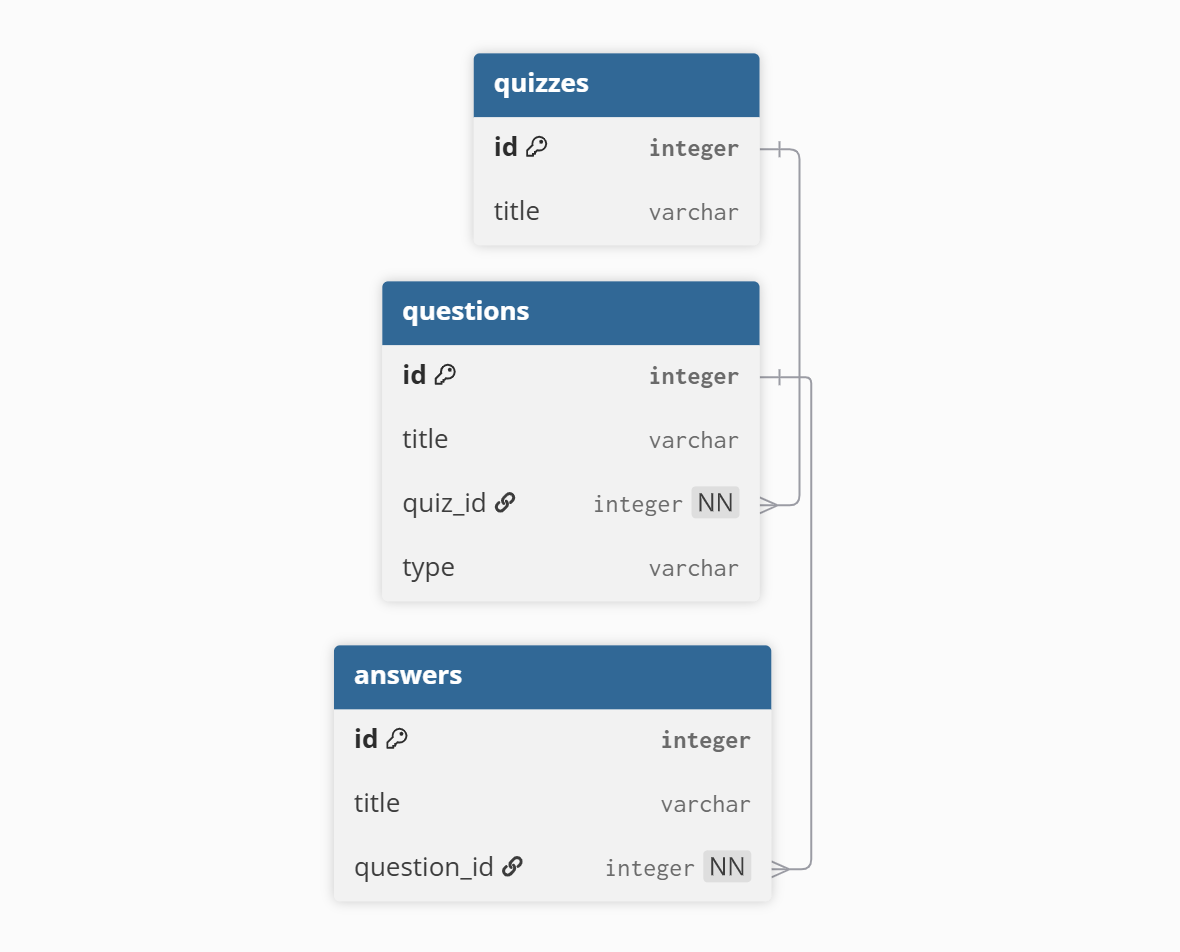
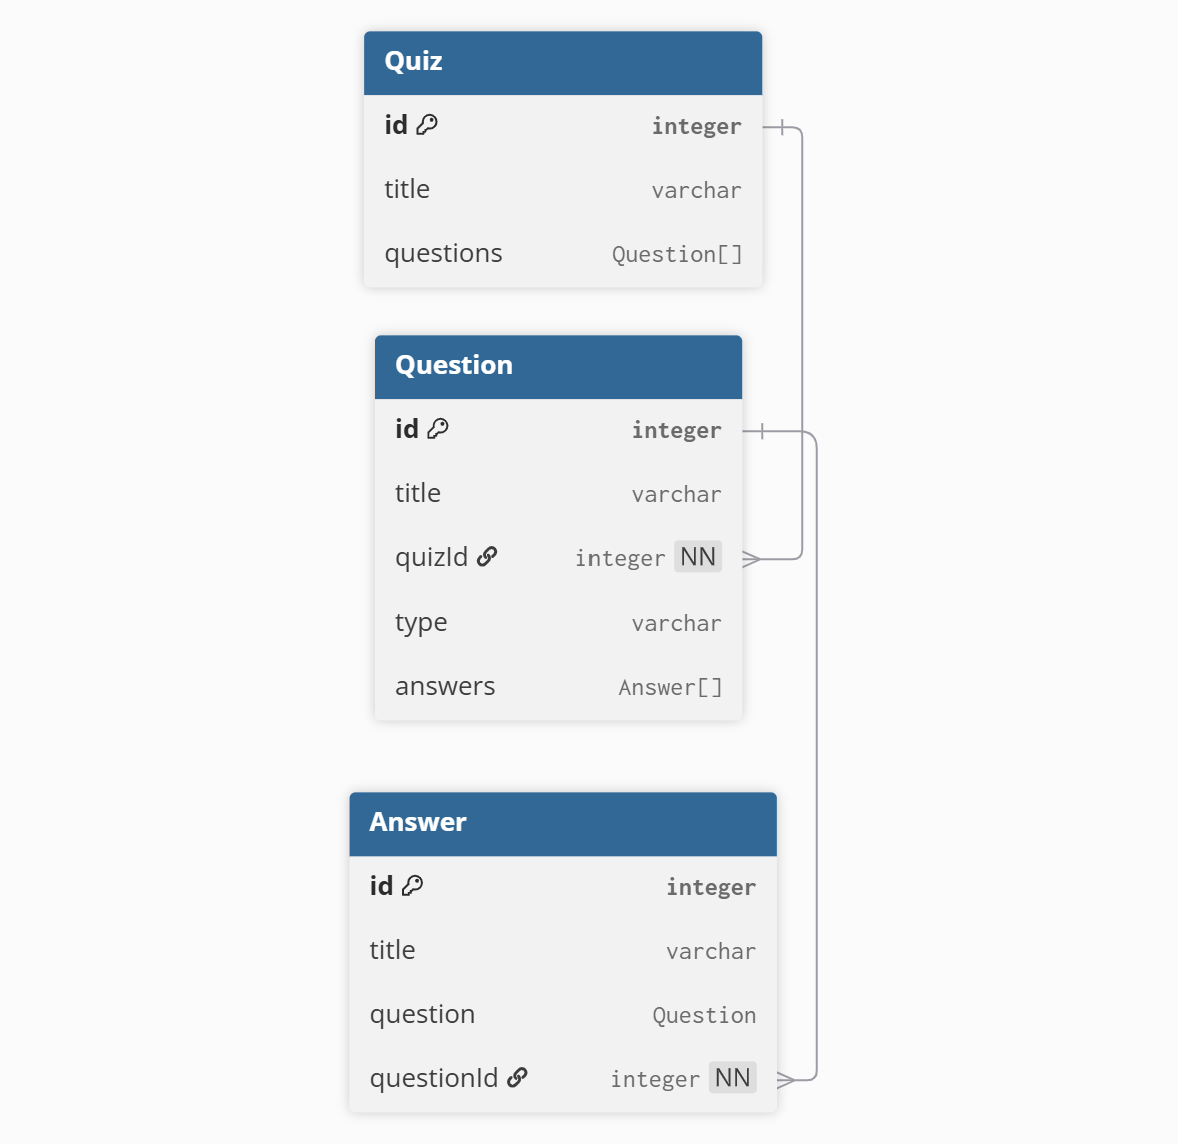
Create quiz Service and Controller

diff --git a/backend/src/quizzes/quizzes.service.ts b/backend/src/quizzes/quizzes.service.ts
@@ -1,0 +1,72 @@
+import { Injectable } from '@nestjs/common';
+import { CreateQuizDto } from './dto/create-quiz.dto';
+import { PrismaService } from 'src/prisma/prisma.service';
+
+@Injectable()
+export class QuizzesService {
+  constructor(private prisma: PrismaService) {}
+
+  async create(data: CreateQuizDto) {
+    return this.prisma.quiz.create({
+      data: {
+        title: data.title,
+        questions: {
+          create: data.questions.map((q) => {
+            const questionData: any = {
+              title: q.title,
+              type: q.type,
+            };
+            
+            // Adding answer only if type is multiple choice
+            if (q.type === 'MULTIPLE_CHOICE') {
+              questionData.answers = {
+                create: q.answers.map((a) => ({
+                  title: a.title,
+                })),
+              };
+            }
+
+            return questionData;
+          }),
+        },
+      },
+      include: {
+        questions: { include: { answers: true } },
+      },
+    });
+  }
+
+  async findAll() {
+    const quizzes = await this.prisma.quiz.findMany({
+      select: {
+        id: true,
+        title: true,
+        _count: {
+          select: { questions: true },
+        },
+      },
+    });
+    
+    // Mapping before return
+    return quizzes.map(q => ({
+      id: q.id,
+      title: q.title,
+      questions: q._count.questions,
+    }));
+  }
+
+  async findOne(id: number) {
+    return this.prisma.quiz.findUnique({
+      where: { id },
+      include: {
+        questions: { include: { answers: true } },
+      },
+    });
+  }
+
+  async remove(id: number) {
+    return this.prisma.quiz.delete({
+      where: { id },
+    });
+  }
+}

diff --git a/backend/src/quizzes/quizzes.controller.ts b/backend/src/quizzes/quizzes.controller.ts
@@ -1,0 +1,28 @@
+import { Controller, Post, Get, Delete, Param, Body, ParseIntPipe } from '@nestjs/common';
+import { QuizzesService } from './quizzes.service';
+import { CreateQuizDto } from './dto/create-quiz.dto';
+
+@Controller('quizzes')
+export class QuizzesController {
+  constructor(private readonly quizzesService: QuizzesService) {}
+
+  @Post()
+  create(@Body() createQuizDto: CreateQuizDto) {
+    return this.quizzesService.create(createQuizDto);
+  }
+
+  @Get()
+  findAll() {
+    return this.quizzesService.findAll();
+  }
+
+  @Get(':id')
+  findOne(@Param('id', ParseIntPipe) id: number) {
+    return this.quizzesService.findOne(id);
+  }
+
+  @Delete(':id')
+  remove(@Param('id', ParseIntPipe) id: number) {
+    return this.quizzesService.remove(id);
+  }
+}

diff --git a/backend/src/quizzes/dto/create-quiz.dto.ts b/backend/src/quizzes/dto/create-quiz.dto.ts
@@ -1,0 +1,34 @@
+import { IsString, IsNotEmpty, IsArray, ValidateNested } from 'class-validator';
+import { Type } from 'class-transformer';
+
+class CreateAnswerDto {
+  @IsString()
+  @IsNotEmpty()
+  title: string;
+}
+
+class CreateQuestionDto {
+  @IsString()
+  @IsNotEmpty()
+  title: string;
+
+  @IsString()
+  @IsNotEmpty()
+  type: string;
+
+  @IsArray()
+  @ValidateNested({ each: true })
+  @Type(() => CreateAnswerDto)
+  answers: CreateAnswerDto[];
+}
+
+export class CreateQuizDto {
+  @IsString()
+  @IsNotEmpty()
+  title: string;
+
+  @IsArray()
+  @ValidateNested({ each: true })
+  @Type(() => CreateQuestionDto)
+  questions: CreateQuestionDto[];
+}

diff --git a/backend/src/quizzes/quizzes.controller.spec.ts b/backend/src/quizzes/quizzes.controller.spec.ts
@@ -1,0 +1,20 @@
+import { Test, TestingModule } from '@nestjs/testing';
+import { QuizzesController } from './quizzes.controller';
+import { QuizzesService } from './quizzes.service';
+
+describe('QuizzesController', () => {
+  let controller: QuizzesController;
+
+  beforeEach(async () => {
+    const module: TestingModule = await Test.createTestingModule({
+      controllers: [QuizzesController],
+      providers: [QuizzesService],
+    }).compile();
+
+    controller = module.get<QuizzesController>(QuizzesController);
+  });
+
+  it('should be defined', () => {
+    expect(controller).toBeDefined();
+  });
+});

diff --git a/backend/src/quizzes/quizzes.service.spec.ts b/backend/src/quizzes/quizzes.service.spec.ts
@@ -1,0 +1,18 @@
+import { Test, TestingModule } from '@nestjs/testing';
+import { QuizzesService } from './quizzes.service';
+
+describe('QuizzesService', () => {
+  let service: QuizzesService;
+
+  beforeEach(async () => {
+    const module: TestingModule = await Test.createTestingModule({
+      providers: [QuizzesService],
+    }).compile();
+
+    service = module.get<QuizzesService>(QuizzesService);
+  });
+
+  it('should be defined', () => {
+    expect(service).toBeDefined();
+  });
+});

diff --git a/backend/src/app.module.ts b/backend/src/app.module.ts
@@ -2,9 +2,10 @@ import { Module } from '@nestjs/common';
 import { AppController } from './app.controller';
 import { AppService } from './app.service';
 import { PrismaModule } from './prisma/prisma.module';
+import { QuizzesModule } from './quizzes/quizzes.module';
 
 @Module({
-  imports: [PrismaModule],
+  imports: [PrismaModule, QuizzesModule],
   controllers: [AppController],
   providers: [AppService],
 })

diff --git a/backend/src/quizzes/quizzes.module.ts b/backend/src/quizzes/quizzes.module.ts
@@ -1,0 +1,9 @@
+import { Module } from '@nestjs/common';
+import { QuizzesService } from './quizzes.service';
+import { QuizzesController } from './quizzes.controller';
+
+@Module({
+  controllers: [QuizzesController],
+  providers: [QuizzesService],
+})
+export class QuizzesModule {}

diff --git a/backend/src/prisma/prisma.service.ts b/backend/src/prisma/prisma.service.ts
@@ -1,5 +1,5 @@
 import { Injectable, OnModuleInit, OnModuleDestroy } from '@nestjs/common';
-import { PrismaClient } from '@prisma/client';
+import { PrismaClient } from '../../generated/prisma/client';
 
 @Injectable()
 export class PrismaService

diff --git a/backend/src/quizzes/dto/update-quiz.dto.ts b/backend/src/quizzes/dto/update-quiz.dto.ts
@@ -1,0 +1,4 @@
+import { PartialType } from '@nestjs/mapped-types';
+import { CreateQuizDto } from './create-quiz.dto';
+
+export class UpdateQuizDto extends PartialType(CreateQuizDto) {}

diff --git a/backend/src/quizzes/entities/quiz.entity.ts b/backend/src/quizzes/entities/quiz.entity.ts
@@ -1,0 +1,1 @@
+export class Quiz {}
